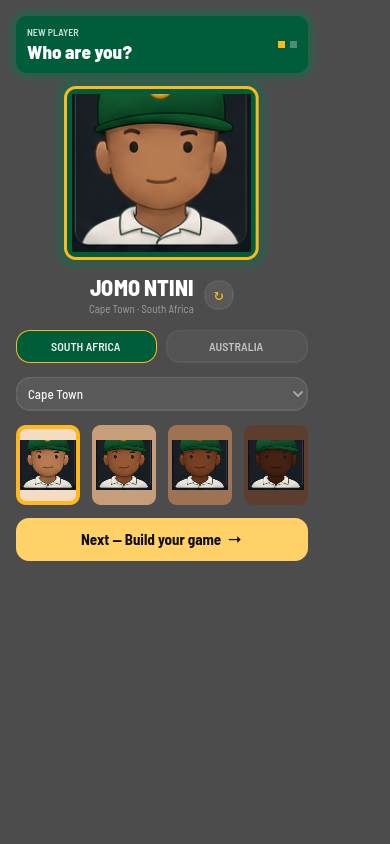
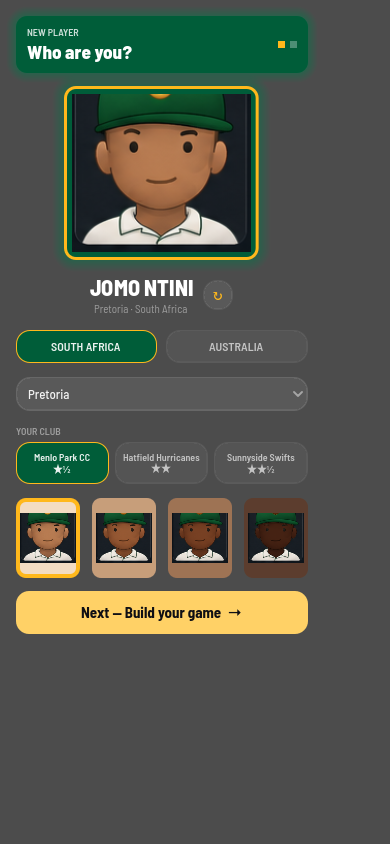
feat: T11 task 5 -- career wiring + identity renders + design request

diff --git a/docs/design-inbox/identity-club-pick-REQUEST.md b/docs/design-inbox/identity-club-pick-REQUEST.md
@@ -1,0 +1,27 @@
+# REQUEST: Identity screen — "YOUR CLUB" starting-club pick (T11)
+
+**From:** Claude Code (build) · **Date:** 2026-07-04 · **Status:** built with an
+in-house default; asking design to bless or restyle.
+
+## What changed on the locked Identity band
+
+Playtest T11 (Nico): *"give the user a selection of 3 starting clubs (low rank
+clubs)"* per chosen city. A **YOUR CLUB** section now sits between the city pill
+and the appearance picker:
+
+- 3 tappable tiles in the existing segmented-button style (`_seg_button` +
+  `_style_seg` selected state — same as the country toggle).
+- Each tile: club name (from the new per-city bank, e.g. Pretoria → "Menlo Park
+  CC / Hatfield Hurricanes / Sunnyside Swifts") + its ★ rating (1.5★ / 2.0★ /
+  2.5★ — the career ladder's three starting slots, now visible).
+- Hidden until a city is chosen; slot 0 preselected; never gates Next.
+- Font size 10, two-line tile text (name over ★).
+
+Render: `docs/mockups/latest/player-creation-identity.png` (SA · Pretoria shown).
+
+## The ask
+
+1. Bless or restyle the section (tile shape, label copy "YOUR CLUB", ★ line).
+2. Optional, separate: richer local club-name banks per city (8 names each, ≤22
+   chars, ASCII — current banks are in `scripts/data/city_clubs.gd`; happy to
+   swap content with zero code change).
